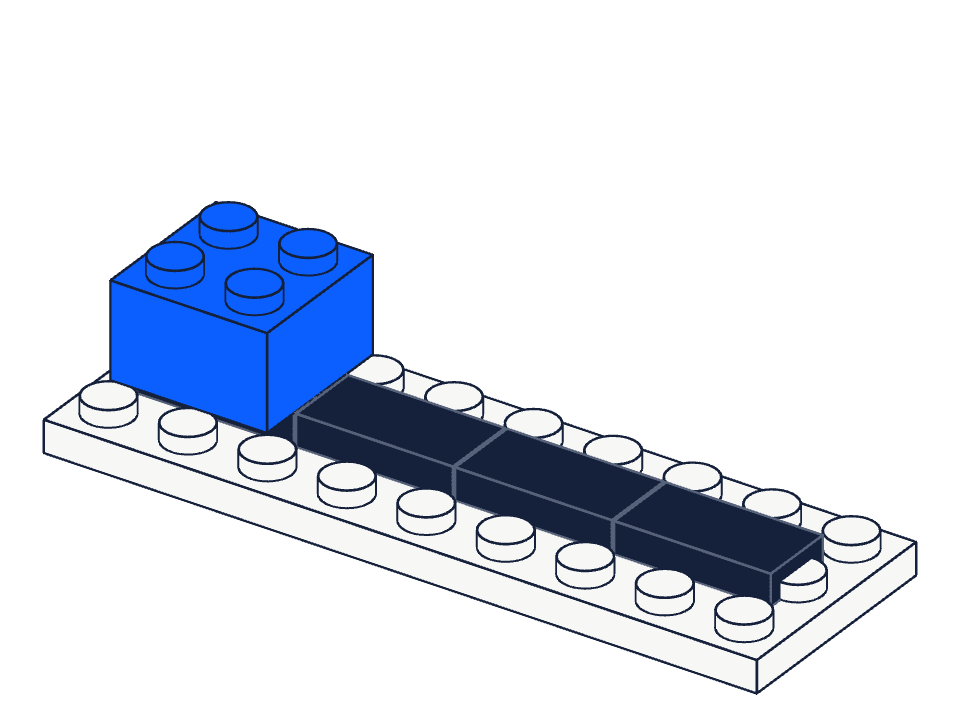
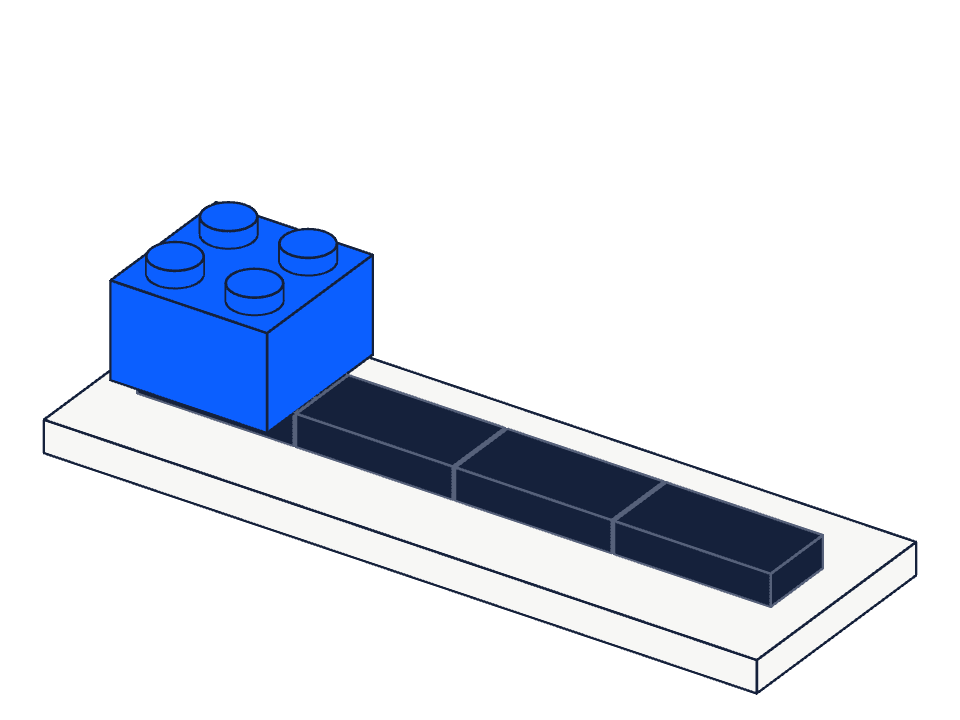
LEGO: large plates become smooth tiles (fewer studs, cleaner look)
Plates larger than 2x4 have no studs; bricks and small parts keep them.
Posters regenerated.

diff --git a/src/lib/lego/kit.js b/src/lib/lego/kit.js
@@ -18,6 +18,7 @@ export const PL = 3.2;   // plate height
 export const SR = 2.4;   // stud radius (Ø4.8)
 export const SH = 1.7;   // stud height
 const GAP = 0.12;        // visual seam between neighbouring bricks
+export const MAX_PLATE_STUDS = 8; // пластина більша за 2×4 — без шипів
 
 /* ---- palette: only for the brick illustrations ---- */
 export const COLORS = {
@@ -135,6 +136,8 @@ export class Part {
   }
   /* brick / plate / tile on the stud grid: w,d in studs, h in plates */
   block(x, y, z, w, d, hPlates, { studs = true } = {}) {
+    // Великі пластини — гладкі плитки: сотні шипів дають «брудний» вигляд. Шипи лишаються на цеглинках і дрібних деталях.
+    if (hPlates === 1 && w * d > MAX_PLATE_STUDS) studs = false;
     const h = hPlates * PL; this.box(x, y, z, w * P, h, d * P);
     if (studs) for (let i = 0; i < w; i++) for (let j = 0; j < d; j++) this.stud(x + (i + .5) * P, y + h, z + (j + .5) * P);
     return this;
